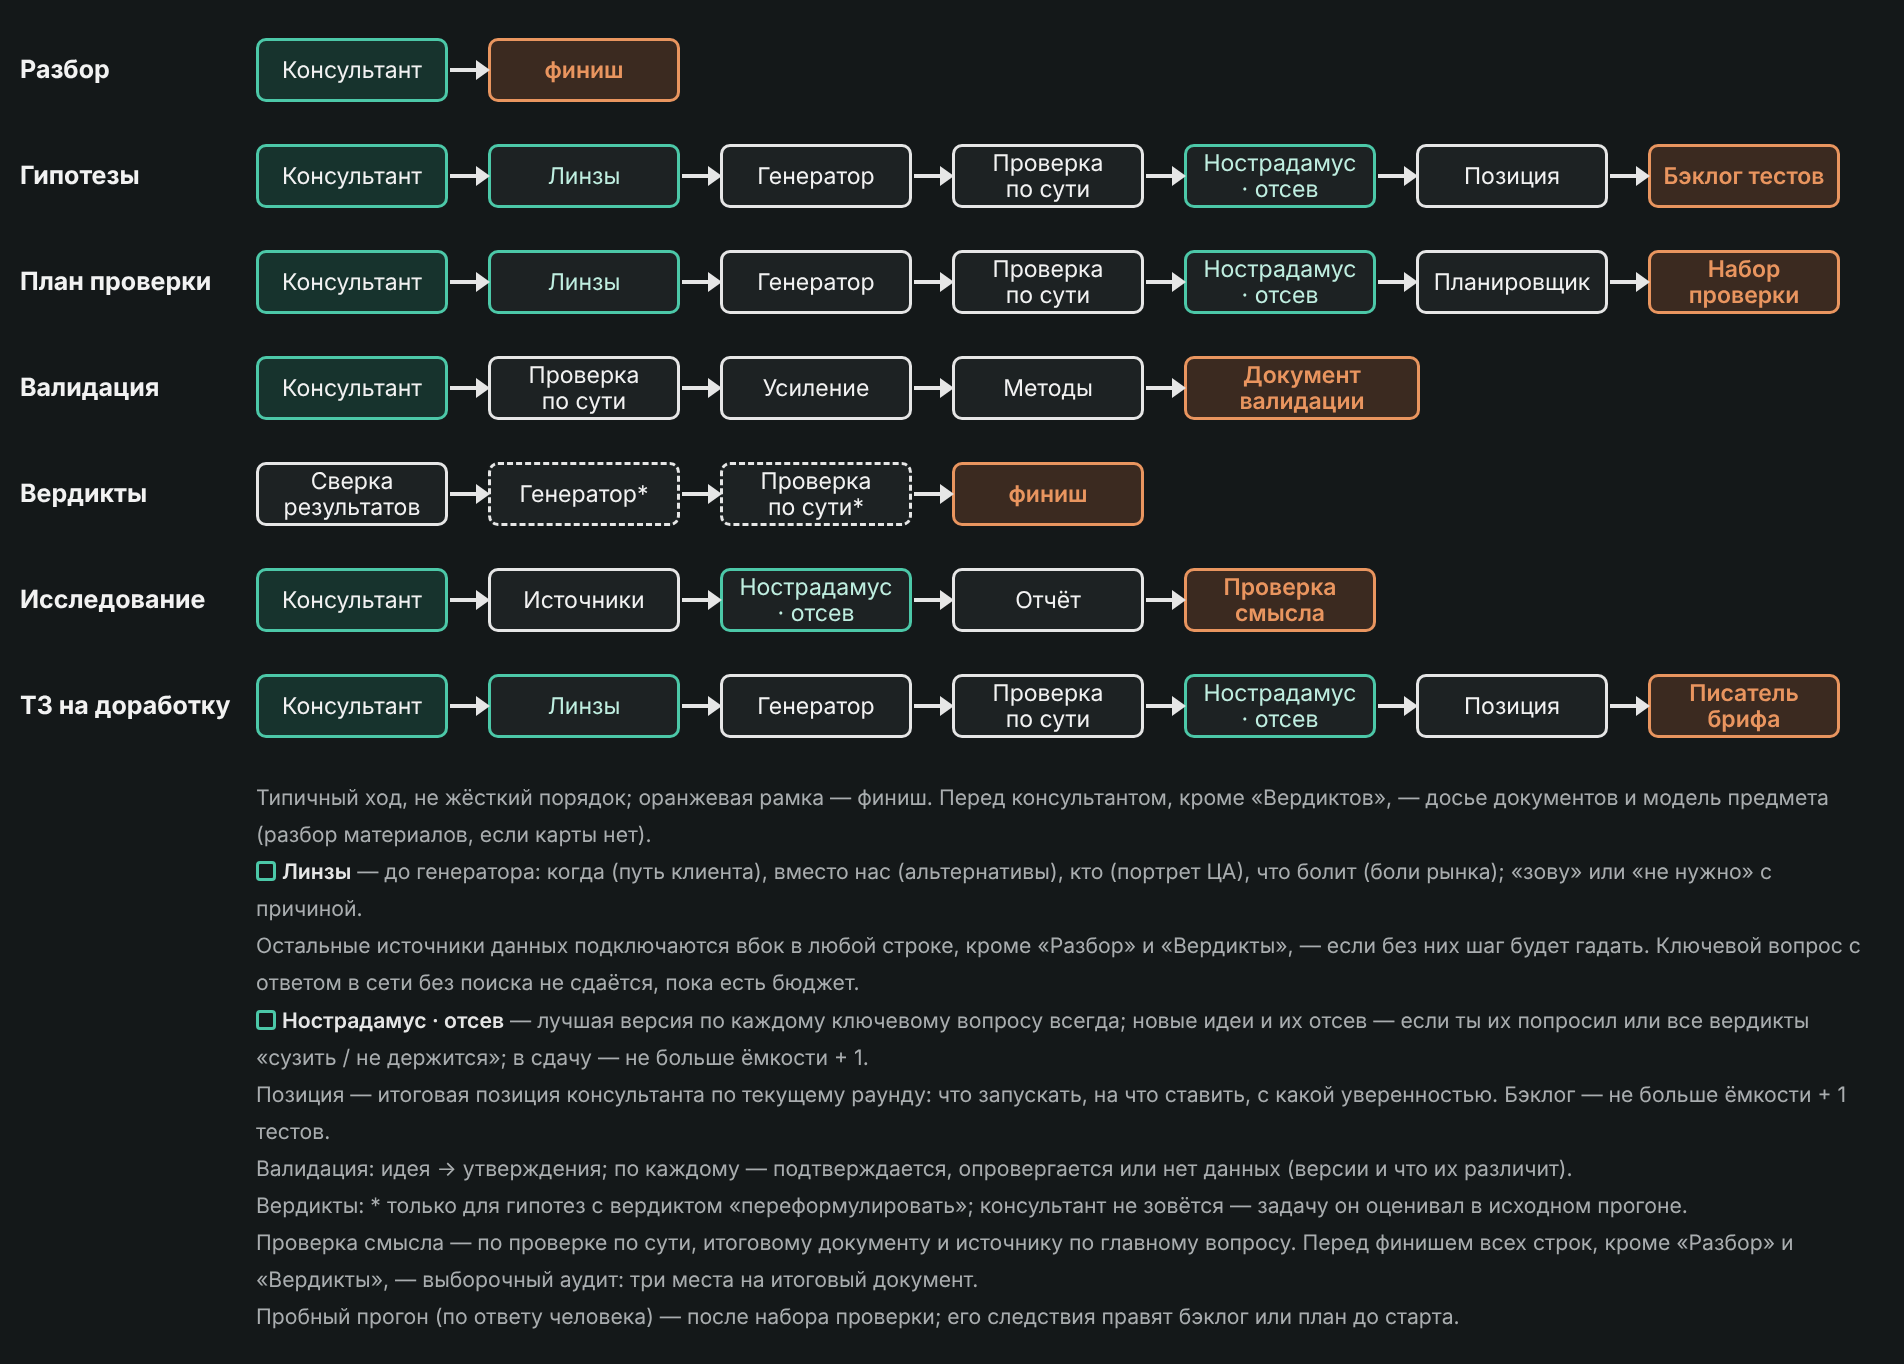
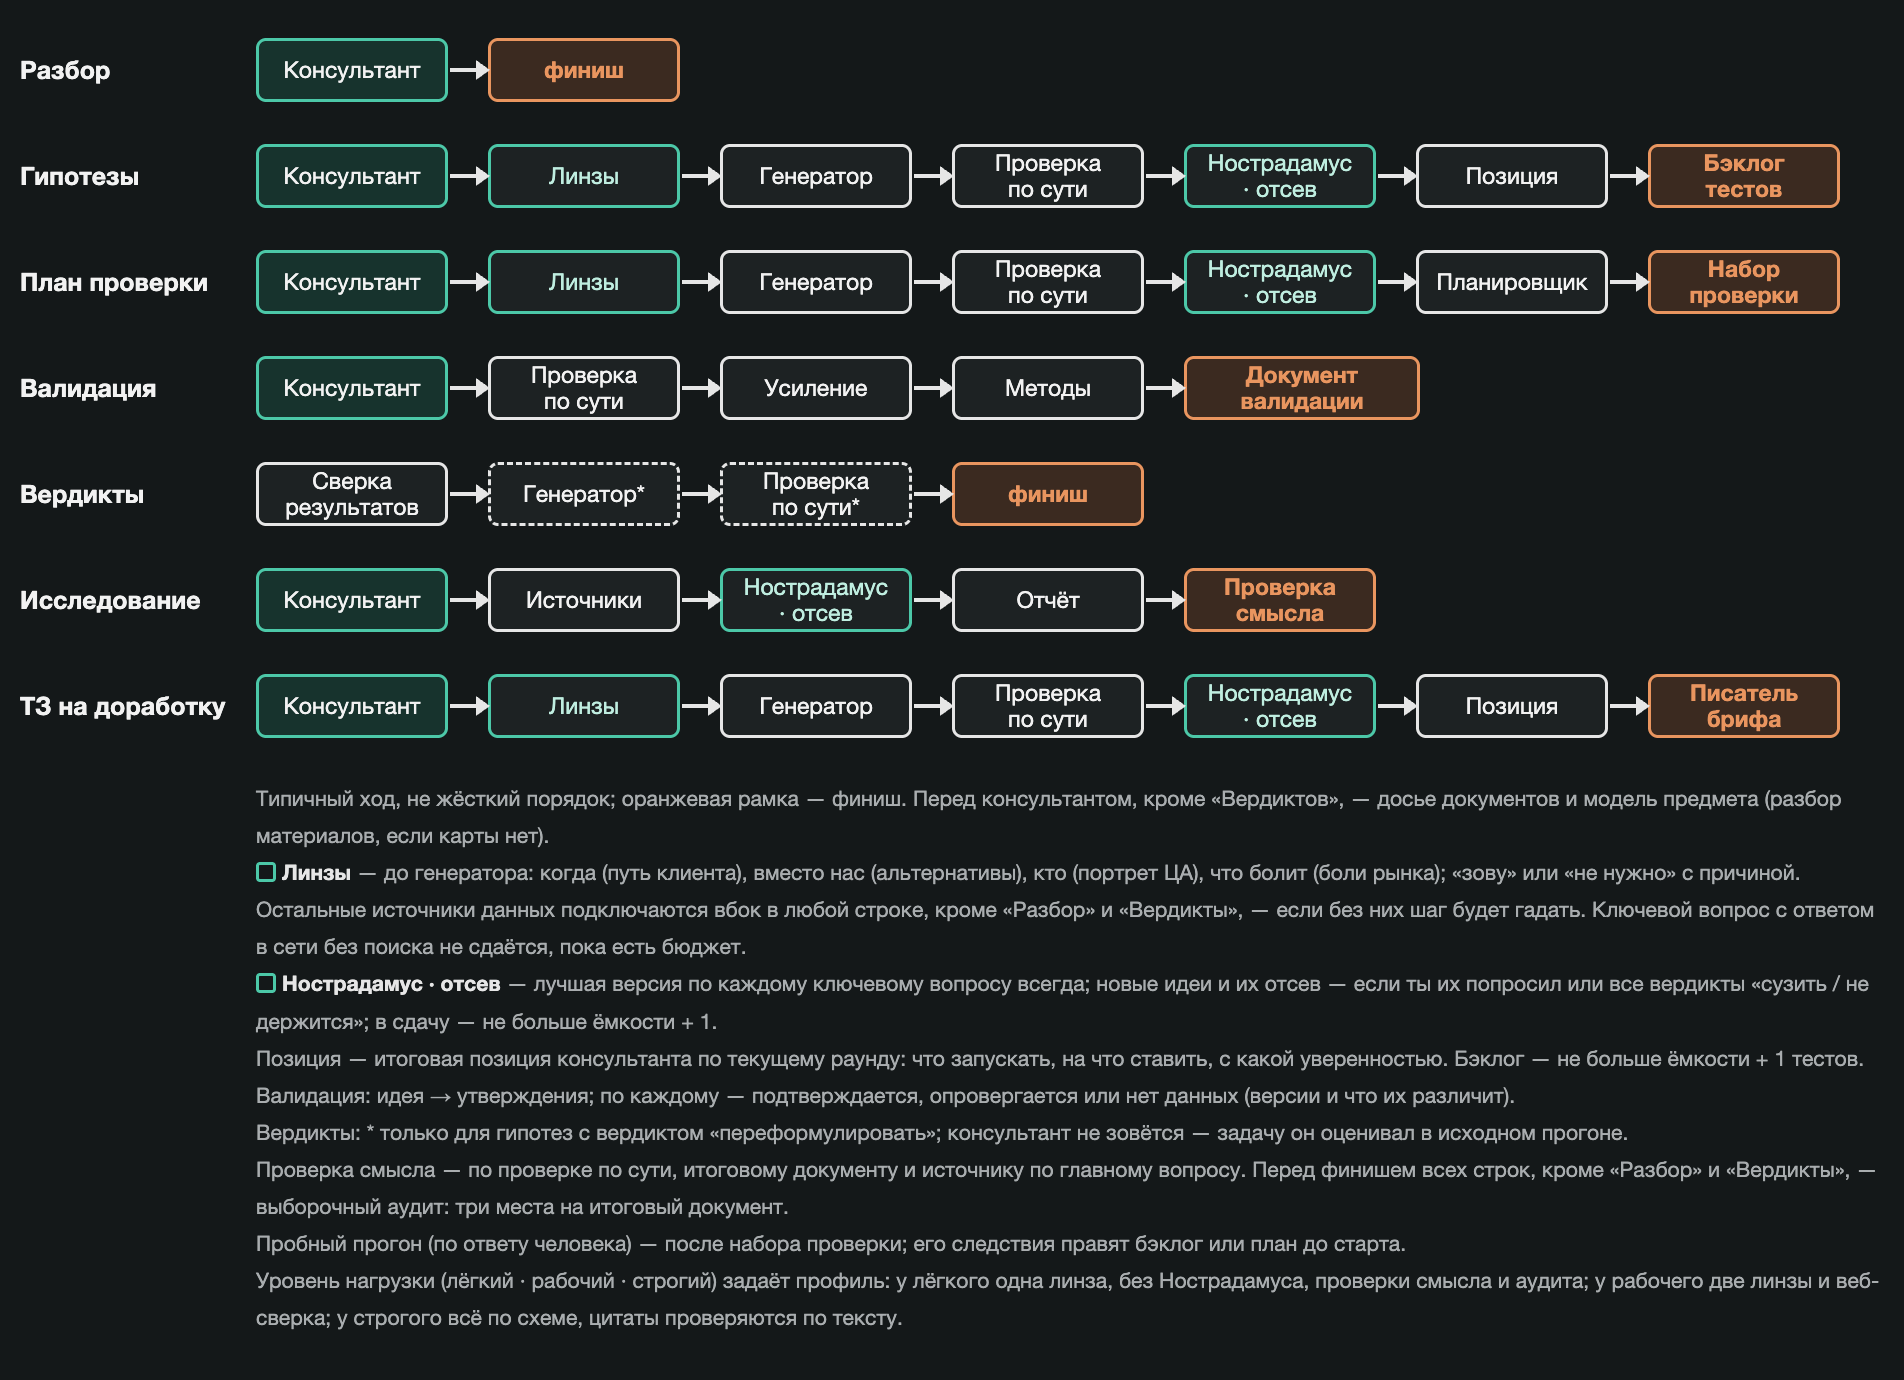
Схемы и README: уровни нагрузки, раздельная сдача
- docs/architecture-1-roles: компактное ТЗ с блоками СТАВКИ и НАГРУЗКА и
  четвёртым вопросом про нагрузку, профиль у оркестратора, 08-service рядом
  с 08-handoff; перерисована.
- docs/architecture-2-routes: пояснение, что уровень нагрузки задаёт профиль
  маршрута; перерисована.
- README: что проверено про уровни нагрузки (лёгкий и рабочий на живых
  задачах, быстрый и строгий пока только скриптами).

diff --git a/docs/src/architecture-1-roles.html b/docs/src/architecture-1-roles.html
@@ -36,11 +36,11 @@ svg{position:absolute;left:0;top:0}
 <!-- top -->
 <div class="b" style="left:20px;top:26px;width:128px;height:58px"><div class="h">Человек</div><div class="s">заказчик</div></div>
 <div class="lab" style="left:154px;top:36px">запрос</div>
-<div class="b t" style="left:200px;top:14px;width:350px;height:96px"><div class="h">Диспетчер</div><div class="s">1) карта документов — скриптами, без модели до «да»</div><div class="s">2) ТЗ: GAP · РЕШЕНИЕ · ГРУППЫ · РАМКИ · ЭКСПЕРИМЕНТ</div><div class="s">ЦЕНА · ЁМКОСТЬ · ЧТО ПОЛУЧИШЬ · 3 вопроса + 4-й</div></div>
+<div class="b t" style="left:200px;top:14px;width:350px;height:96px"><div class="h">Диспетчер</div><div class="s">1) карта документов — скриптами, без модели до «да»</div><div class="s">2) компактное ТЗ: ЦЕЛЬ · GAP · РЕШЕНИЕ · СТАВКИ · НАГРУЗКА</div><div class="s">ЁМКОСТЬ · ЧТО ПОЛУЧИШЬ · ЦЕНА · 3 вопроса + нагрузка</div></div>
 <div class="b o" style="left:200px;top:128px;width:350px;height:42px"><div class="h" style="font-size:11.5px">Единственная пауза</div><div class="s">ответы и «да» одним сообщением</div></div>
 <div class="olab" style="left:22px;top:160px">ответы / правки / «да»</div>
 <div class="lab" style="left:384px;top:174px">СОГЛАСОВАНО</div>
-<div class="b t" style="left:200px;top:192px;width:350px;height:80px"><div class="h">Оркестратор</div><div class="s">route.py: шаг, периметр по хэшам, готовность · бюджет из ЦЕНЫ</div><div class="s">агенты ролей · линзы до генератора · проверки после шага</div></div>
+<div class="b t" style="left:200px;top:192px;width:350px;height:80px"><div class="h">Оркестратор</div><div class="s">route.py: шаг, периметр, готовность · профиль по уровню нагрузки</div><div class="s">рецепт · линзы по уровню · проверки после шага</div></div>
 <div class="lab" style="left:384px;top:278px">зовёт по одному</div>
 
 <!-- right column -->
@@ -48,7 +48,7 @@ svg{position:absolute;left:0;top:0}
 <div class="b r" style="left:592px;top:14px;width:340px;height:108px"><div class="h">methodology/</div><div class="s">tools-index — инструмент под пункт пути<br>модули: M0–M8, M11–M13 и Э Д К О П Ж С<br>эксперименты · данные · источники · оценки<br>оффер · жизненный цикл · сегменты<br>web-protocol — как ходить в веб</div></div>
 <div class="b r" style="left:592px;top:130px;width:340px;height:68px"><div class="h">context/</div><div class="s">кладёт человек до запуска<br>from-tasks/ — src-* и результаты живой проверки<br>карта документов — кэш по хэшу файла</div></div>
 <div class="lab" style="left:555px;top:224px">пишет</div>
-<div class="b r" style="left:592px;top:204px;width:340px;height:100px"><div class="h">tasks/‹задача›/</div><div class="s">00-tz · log · state.json · trace · map/ · 00d-map · 00m-model<br>00k · 01-review · src-* · 02-hypotheses · 02c<br>02f-forecast · 02g-ideas · 02e-position · 02e-trace<br>03-backlog / 03-plan · 03b · 03c · 06-* · 07a–07d<br>audit · 08-handoff · checks/ · results/</div></div>
+<div class="b r" style="left:592px;top:204px;width:340px;height:100px"><div class="h">tasks/‹задача›/</div><div class="s">00-tz · log · state.json · trace · map/ · 00d-map · 00m-model<br>00k · 01-review · src-* · 02-hypotheses · 02c<br>02f-forecast · 02g-ideas · 02e-position · 02e-trace<br>03-backlog / 03-plan · 03b · 03c · 06-* · 07a–07d<br>audit · 08-handoff · 08-service · checks/ · results/</div></div>
 
 <div class="b r" style="left:592px;top:314px;width:340px;height:166px"><div class="h">scripts/ и хуки</div><div class="s">route.py — шаг, периметр, обязательные шаги, готовность<br>хуки: права ролей, проверка шага до сдачи, трасса расхода<br>реестры источников и чисел · сверка цитат — скрипт<br>cost_estimate — ЦЕНА · check_effort — «мало данных»<br>check_forecast · check_ideas · check_rehearsal<br>audit_sample — три места на итоговый документ<br>roles → .claude/agents/ · rules · check_size<br>check_publish — локально, перед отправкой<br>map_docs · map_summary · check_map · build_model</div></div>
 <div class="b r" style="left:592px;top:490px;width:340px;height:80px"><div class="h">Полигон · scripts/polygon.py</div><div class="s">отчёты об экспериментах, транскрипты интервью,<br>строки документов — с ключом ответов<br>без нейросети, ничего не хранит</div></div>
@@ -90,7 +90,7 @@ svg{position:absolute;left:0;top:0}
 <div class="b o plain" style="left:30px;top:734px;width:166px;height:36px"><div class="h">Сборщик документа</div></div>
 <div class="b o plain" style="left:206px;top:734px;width:166px;height:36px"><div class="h">Писатель брифа</div></div>
 <div class="b plain" style="left:382px;top:734px;width:180px;height:36px"><div class="h">Проверка смысла · аудит</div><div class="s" style="margin-top:0">отдельный контекст</div></div>
-<div class="b plain" style="left:30px;top:780px;width:532px;height:50px"><div class="h">Сдача · 08-handoff</div><div class="s">позиция → версия и шаг → бэклог → вердикты → новые идеи · аудит · расход против ЦЕНЫ</div></div>
+<div class="b plain" style="left:30px;top:780px;width:532px;height:50px"><div class="h">Сдача · 08-handoff + 08-service</div><div class="s">для человека: позиция → версия → бэклог → идеи · служебное — отдельным файлом</div></div>
 
 <!-- experiment -->
 <div class="exp" style="left:20px;top:856px;width:912px;height:128px"><div class="gt">Эксперимент в системе · живой запуск делает человек, система готовит его и разбирает итог</div>

diff --git a/docs/src/architecture-2-routes.html b/docs/src/architecture-2-routes.html
@@ -51,6 +51,6 @@ body{font-family:Inter,"SF Pro Text",-apple-system,"Helvetica Neue",Arial,sans-s
 Валидация: идея → утверждения; по каждому — подтверждается, опровергается или нет данных (версии и что их различит).<br>
 Вердикты: * только для гипотез с вердиктом «переформулировать»; консультант не зовётся — задачу он оценивал в исходном прогоне.<br>
 Проверка смысла — по проверке по сути, итоговому документу и источнику по главному вопросу. Перед финишем всех строк, кроме «Разбор» и «Вердикты», — выборочный аудит: три места на итоговый документ.<br>
-Пробный прогон (по ответу человека) — после набора проверки; его следствия правят бэклог или план до старта.
+Пробный прогон (по ответу человека) — после набора проверки; его следствия правят бэклог или план до старта.<br>Уровень нагрузки (лёгкий · рабочий · строгий) задаёт профиль: у лёгкого одна линза, без Нострадамуса, проверки смысла и аудита; у рабочего две линзы и веб-сверка; у строгого всё по схеме, цитаты проверяются по тексту.
 </div>
 </body></html>

diff --git a/README.md b/README.md
@@ -51,7 +51,8 @@
 
 - Полный маршрут с агентами прогонялся на реальных задачах: исследование по пачке интервью, задача на гипотезы и повторный прогон гипотез с линзами. Что в каждом сломалось и что поправлено — в `system-notes.md`.
 - Разметку документов проверили слепым аудитом на восьми документах. Пороги аудита ещё не откалиброваны на двух-трёх задачах; описание и риски — в [docs/proposal-document-dossiers.md](docs/proposal-document-dossiers.md).
-- Маршрут в коде, проверка шага до сдачи, роли агентов, цена в ТЗ и выборочный аудит проверены только скриптами на выдуманных данных (`selftest.py`). В полном прогоне их ещё не было.
+- Маршрут в коде, проверка шага до сдачи, роли агентов, цена в ТЗ и выборочный аудит проверены скриптами на выдуманных данных (`selftest.py`); в полном прогоне выборочного аудита ещё не было.
+- Уровни нагрузки: лёгкий прошёл на двух живых задачах, рабочий (с картой документов из 17 файлов) на одной; быстрый и строгий пока проверены только скриптами. Замечания этих прогонов разобраны в `system-notes.md`.
 
 ## Что внутри
 
